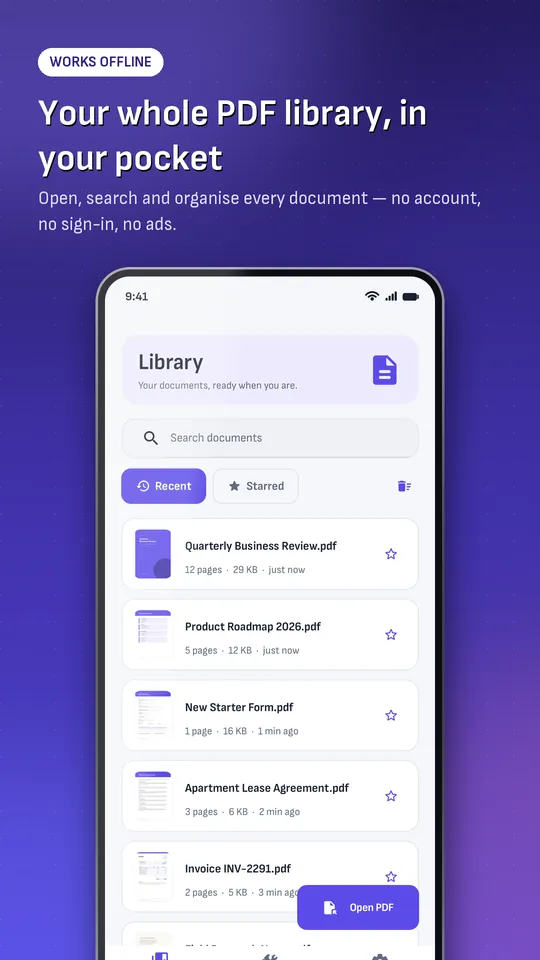
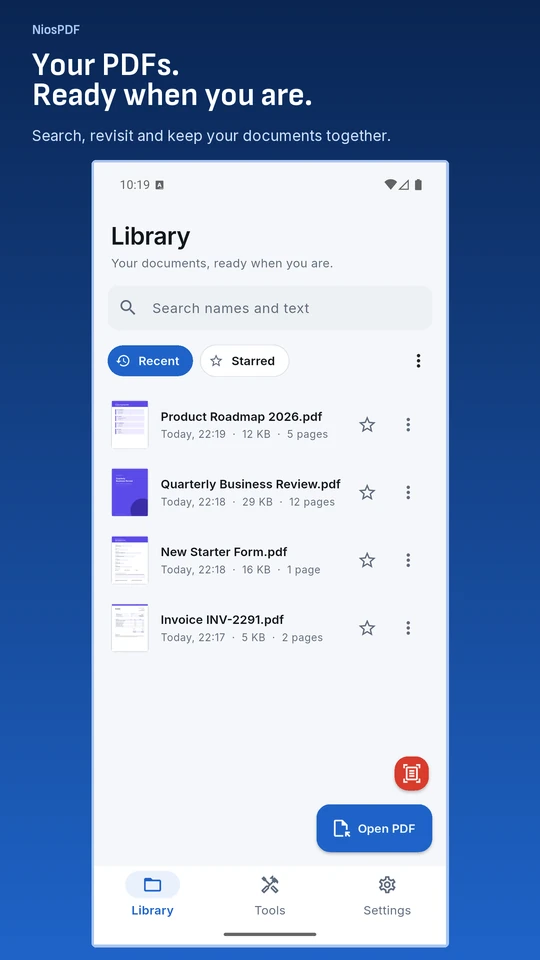
update niospdf listing images

diff --git a/index.html b/index.html
@@ -122,10 +122,10 @@
   .app-foot a:hover { color: var(--text); }
 
   /* Per-app accents */
-  #niospdf { --accent: #5b45e0; --accent-strong: #4a35c8; --accent-soft: #ece8ff; --accent-glow: rgba(91,69,224,.5); --on-accent: #fff; }
+  #niospdf { --accent: #1f63c8; --accent-strong: #0a2552; --accent-soft: #e5efff; --accent-glow: rgba(31,99,200,.5); --on-accent: #fff; }
   #trafficindia { --accent: #e8590c; --accent-strong: #c2410c; --accent-soft: #fff0e3; --accent-glow: rgba(232,89,12,.5); --on-accent: #fff; }
   @media (prefers-color-scheme: dark) {
-    #niospdf { --accent: #8b7bff; --accent-strong: #b3a8ff; --accent-soft: #262145; --on-accent: #120d33; }
+    #niospdf { --accent: #a9c6f0; --accent-strong: #d3e2f8; --accent-soft: #132f55; --on-accent: #0a2552; }
     #trafficindia { --accent: #ff8a3d; --accent-strong: #ffb27f; --accent-soft: #3a2414; --on-accent: #2a1203; }
   }
 
@@ -165,9 +165,9 @@
       <img class="app-icon" src="img/niospdf/icon.png" alt="NiosPDF logo" width="84" height="84">
       <div>
         <h2 id="niospdf-title">NiosPDF</h2>
-        <div class="tags"><span class="tag">Windows</span><span class="tag">Android</span><span class="tag">Offline · No ads</span></div>
+        <div class="tags"><span class="tag">Windows</span><span class="tag">Android 2.0</span><span class="tag">Offline · No ads</span></div>
         <p>An offline-first, privacy-focused PDF workstation: read, edit, OCR, convert office documents, fill forms,
-          sign and organise your library, with an optional on-device AI assistant.</p>
+          sign and organise your library, with an optional on-device AI assistant. Now much faster and smoother on Android.</p>
         <div class="links">
           <a class="btn" href="https://apps.microsoft.com/detail/9N03D905JSV6">
             <svg viewBox="0 0 16 16" aria-hidden="true"><path fill="currentColor" d="M1 1h6.5v6.5H1zM8.5 1H15v6.5H8.5zM1 8.5h6.5V15H1zM8.5 8.5H15V15H8.5z"/></svg>
@@ -179,15 +179,20 @@
       </div>
     </div>
     <div class="rail" role="region" aria-label="NiosPDF trailer and screenshots" tabindex="0">
-      <a class="trailer" href="https://youtu.be/C87cf3RY6_4" target="_blank" rel="noopener" aria-label="Watch the NiosPDF trailer on YouTube">
+      <a class="trailer" href="https://youtu.be/vrmvj15ZVz4" target="_blank" rel="noopener" aria-label="Watch the NiosPDF 2.0 Android trailer on YouTube">
         <img src="img/niospdf/trailer.webp" alt="" width="960" height="540">
         <span class="play" aria-hidden="true"><svg viewBox="0 0 24 24"><path d="M6 4l15 8-15 8z"/></svg></span>
-        <span class="trailer-label" aria-hidden="true">Watch the trailer
+        <span class="trailer-label" aria-hidden="true">Watch the v2.0 trailer
           <svg viewBox="0 0 16 16"><path fill="currentColor" d="M9 2h5v5h-1.5V4.6L7.1 10 6 8.9l5.4-5.4H9zM3 4h4v1.5H3.5v7h7V9H12v5H2V4z"/></svg></span>
       </a>
-      <img class="shot" src="img/niospdf/screen-1.webp" alt="NiosPDF library screen on Android" width="540" height="960" loading="lazy">
-      <img class="shot" src="img/niospdf/screen-2.webp" alt="NiosPDF PDF editor with text, image and drawing tools" width="540" height="960" loading="lazy">
-      <img class="shot" src="img/niospdf/screen-3.webp" alt="NiosPDF on-device AI assistant summarising a PDF" width="540" height="960" loading="lazy">
+      <img class="shot" src="img/niospdf/screen-1.webp" alt="NiosPDF 2.0 Android library with recent documents" width="540" height="960" loading="lazy">
+      <img class="shot" src="img/niospdf/screen-2.webp" alt="NiosPDF 2.0 Android PDF reader" width="540" height="960" loading="lazy">
+      <img class="shot" src="img/niospdf/screen-3.webp" alt="NiosPDF 2.0 annotation tools for pens, highlights, shapes and notes" width="540" height="960" loading="lazy">
+      <img class="shot" src="img/niospdf/screen-4.webp" alt="NiosPDF 2.0 Fill and Sign interface" width="540" height="960" loading="lazy">
+      <img class="shot" src="img/niospdf/screen-5.webp" alt="NiosPDF 2.0 page organiser" width="540" height="960" loading="lazy">
+      <img class="shot" src="img/niospdf/screen-6.webp" alt="NiosPDF 2.0 page text editor" width="540" height="960" loading="lazy">
+      <img class="shot" src="img/niospdf/screen-7.webp" alt="NiosPDF 2.0 PDF tools hub" width="540" height="960" loading="lazy">
+      <img class="shot" src="img/niospdf/screen-8.webp" alt="NiosPDF 2.0 conversion options" width="540" height="960" loading="lazy">
     </div>
     <div class="app-foot">
       Privacy: <a href="/legal/niospdf/privacy-desktop.html">Windows</a> ·
